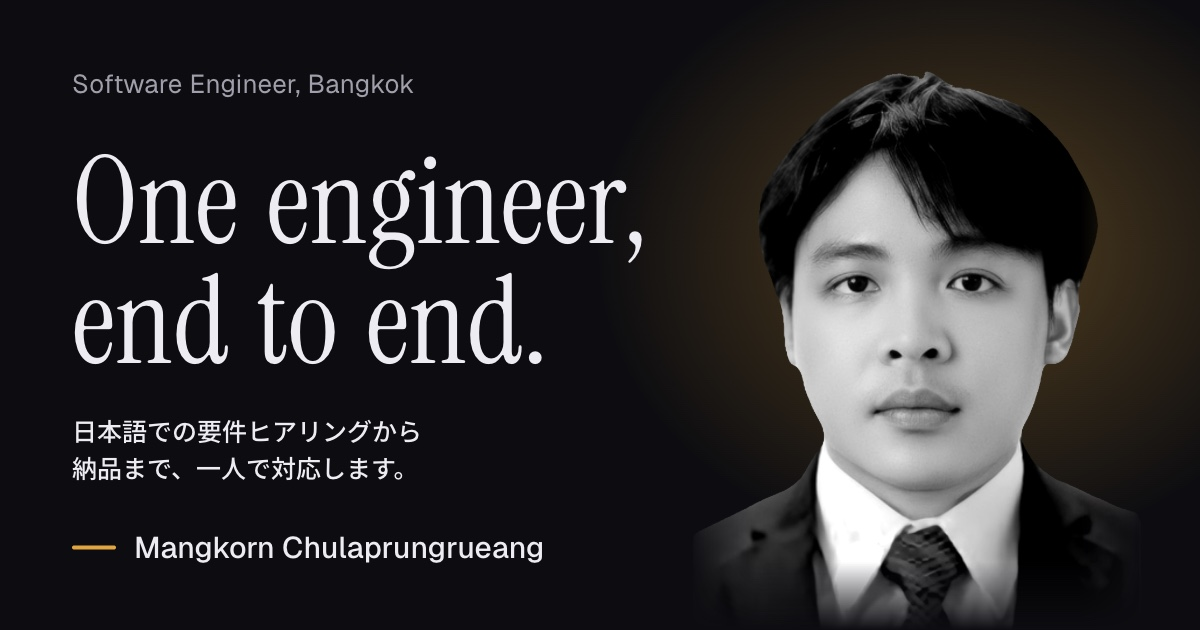
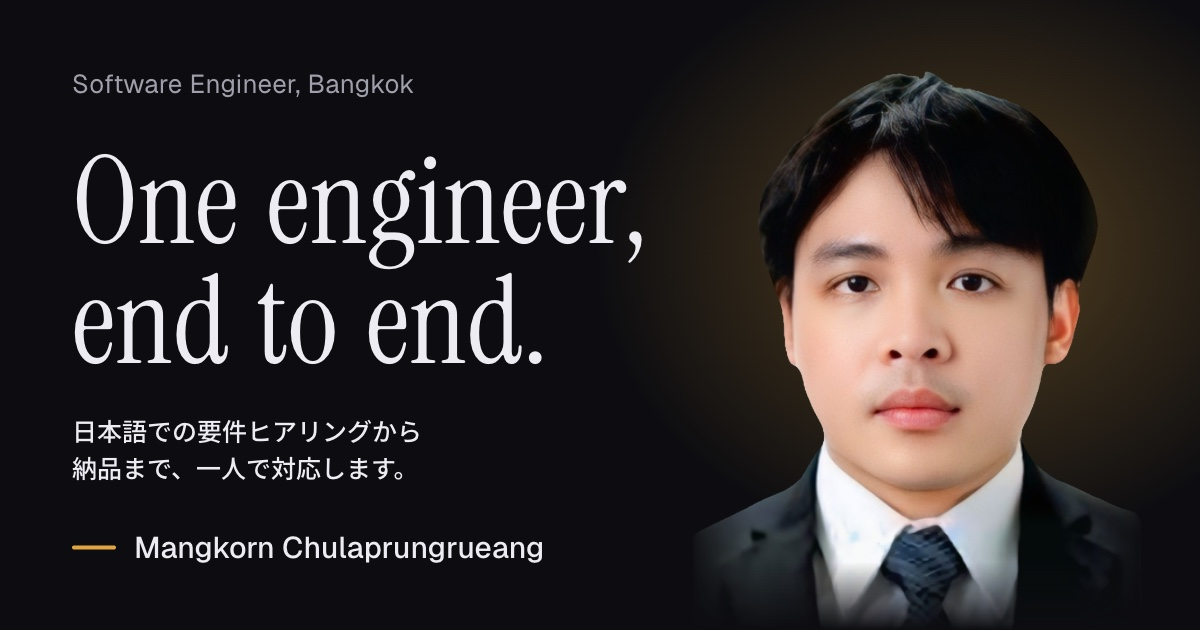
Back to the original colour portrait, in the page and the share card

Changed region(s): [[0.6475, 0.2413, 0.925, 0.9048]]

diff --git a/components/sections/hero.tsx b/components/sections/hero.tsx
@@ -88,7 +88,7 @@ export function Hero() {
             fill
             priority
             sizes={PORTRAIT_SIZES}
-            className="object-contain object-bottom grayscale contrast-110 max-md:[mask-image:linear-gradient(to_top,transparent,black_16%)]"
+            className="object-contain object-bottom max-md:[mask-image:linear-gradient(to_top,transparent,black_16%)]"
           />
         </div>
       </div>

diff --git a/CODING_STANDARDS.md b/CODING_STANDARDS.md
@@ -22,4 +22,4 @@ Read during review. Mechanical rules are enforced by `npm run check`, not listed
 
 - `lib/site.ts` is the only place the public address is written. Change it there if the Vercel project name differs.
 - `app/opengraph-image.jpg` (also copied to `twitter-image.jpg`) embeds the headline, the Japanese line and the portrait. Re-render it from the live page at 1200x630 whenever any of those change. `npm run check` enforces the size and the tags, not the content.
-- The portrait is shown in monochrome (`grayscale` in `hero.tsx`, same in the preview image). Remove both together to go back to colour.
+- The portrait is shown in its original colour, in the page and in the preview image. A monochrome version and a grain overlay were both tried and rejected: the owner did not like the black and white, and the grain made the skin look washed out.
